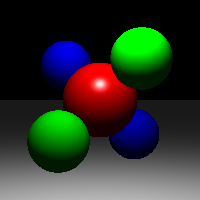
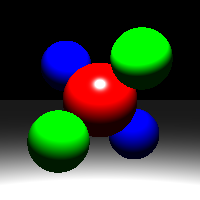
shadow and jiter and filter

diff --git a/src/Renderer.cpp b/src/Renderer.cpp
@@ -7,6 +7,8 @@
 #include "VecUtils.h"
 
 #include <limits>
+#include <random>
+#include <vector>
 
 
 Renderer::Renderer(const ArgParser &args) :
@@ -38,20 +40,101 @@ Renderer::Render()
             float ndcx = 2 * (x / (w - 1.0f)) - 1.0f;
             // Use PerspectiveCamera to generate a ray.
             // You should understand what generateRay() does.
-            Ray r = cam->generateRay(Vector2f(ndcx, ndcy));
+            if(_args.jitter) {
+                Vector3f color, n_val, d_val;
+                for(int i = 0;i < 16;i++) {
+                    std::random_device rd;
+                    std::mt19937 gen(rd());
+                    std::uniform_real_distribution<float> distr(-0.5, 0.5);
+                    float dx = distr(gen);
+                    float dy = distr(gen);
+                    float temp_ndcx = ndcx + 2 * dx / (w - 1.0f);
+                    float temp_ndcy = ndcy + 2 * dy / (h - 1.0f);
 
-            Hit h;
-            Vector3f color = traceRay(r, cam->getTMin(), _args.bounces, h);
+                    Ray r = cam->generateRay(Vector2f(temp_ndcx, temp_ndcy));
 
-            image.setPixel(x, y, color);
-            nimage.setPixel(x, y, (h.getNormal() + 1.0f) / 2.0f);
-            float range = (_args.depth_max - _args.depth_min);
-            if (range) {
-                dimage.setPixel(x, y, Vector3f((h.t - _args.depth_min) / range));
+                    Hit h;
+                    Vector3f color_new = traceRay(r, cam->getTMin(), _args.bounces, h);
+                    n_val += (h.getNormal() + 1.0f) / 2.0f;
+
+                    d_val += Vector3f(h.t - _args.depth_min);
+                    color += color_new;
+
+                    if (i == 15) {
+                        image.setPixel(x, y, color / 16);
+                        nimage.setPixel(x, y, n_val / 16);
+                        dimage.setPixel(x, y, d_val / 16 / (_args.depth_max - _args.depth_min));
+                    }
+                }
+            }
+            else {
+                Ray r = cam->generateRay(Vector2f(ndcx, ndcy));
+
+                Hit h;
+                Vector3f color = traceRay(r, cam->getTMin(), _args.bounces, h);
+
+                image.setPixel(x, y, color);
+                nimage.setPixel(x, y, (h.getNormal() + 1.0f) / 2.0f);
+                dimage.setPixel(x, y, Vector3f((h.t - _args.depth_min) / (_args.depth_max - _args.depth_min)));
             }
         }
     }
     // END SOLN
+
+    if (_args.filter) {
+        // Downsample the image using a Gaussian filter
+        Image downsample_image(w / 3, h / 3);
+        Image downsample_nimage(w / 3, h / 3);
+        Image downsample_dimage(w / 3, h / 3);
+        std::vector<float> gaussian_matrix = {1, 2, 1, 2, 4, 2, 1, 2, 1};//高斯核
+
+
+        for (int y = 0; y < h / 3; y++) {
+            for (int x = 0; x < w / 3; x++) {
+                std::vector<Vector3f> image_block;
+                Vector3f color;
+                for (int i = 0;i <= 2;i++) {
+                    for (int j = 0;j <= 2;j++) {
+                        image_block.push_back(image.getPixel(3 * x + i, 3 * y + j));
+                    }
+                }
+                for(int i = 0; i < 9; i++){
+                    color += image_block[i] * gaussian_matrix[i];
+                }
+                color = color / 16;
+                downsample_image.setPixel(x, y, color);
+
+                std::vector<Vector3f> nimage_block;
+                for(int i = 0;i <= 2;i++) {
+                    for (int j = 0;j <= 2;j++) {
+                        nimage_block.push_back(nimage.getPixel(3 * x + i, 3 * y + j));
+                    }
+                }
+                Vector3f ncolor;
+                for(int i = 0; i < 9; i++){
+                    ncolor += nimage_block[i] * gaussian_matrix[i];
+                }
+                ncolor = ncolor / 16;
+                downsample_nimage.setPixel(x, y, ncolor);
+
+                std::vector<Vector3f> dimage_block;
+                Vector3f dcolor;
+                for(int i = 0;i <= 2;i++) {
+                    for (int j = 0;j <= 2;j++) {
+                        dimage_block.push_back(dimage.getPixel(3 * x + i, 3 * y + j));
+                    }
+                }
+                for(int i = 0; i < 9; i++){
+                    dcolor += dimage_block[i] * gaussian_matrix[i];
+                }
+                dcolor = dcolor / 16;
+                downsample_dimage.setPixel(x, y, dcolor);   
+            }
+        }
+        image = downsample_image;
+        dimage = downsample_dimage;
+        nimage = downsample_nimage;
+    }
 
     // save the files 
     if (_args.output_file.size()) {
@@ -73,29 +156,48 @@ Vector3f Renderer::traceRay(const Ray &r,
     Hit &h) const
 {
     if (_scene.getGroup()->intersect(r, tmin, h)) {//有交点
-        Vector3f I,p;
+        Vector3f color,p;
         p = r.pointAtParameter(h.getT());
-        I= _scene.getAmbientLight() * h.getMaterial()->getDiffuseColor();
+        color= _scene.getAmbientLight() * h.getMaterial()->getDiffuseColor();
         for(auto& light:_scene.lights){
             Vector3f tolight, intensity;
             float distToLight;//必须为float，否则调用getIllumination()时出错
             light->getIllumination(p, tolight, intensity, distToLight);
             Vector3f ILight(0);//先不调用shade(),避免无效计算
+            if (_args.shadows) {
+                Vector3f shadowOrigin = p;
+                Ray shadowRay(shadowOrigin, tolight);
+                Hit shadowHit;
+                bool Intersected = _args.shadows&&_scene.getGroup()->intersect(shadowRay,0.0001f,shadowHit);//是否相交
+                double distToIntersection = (shadowRay.pointAtParameter(shadowHit.getT()) - shadowOrigin).abs();
+                if (Intersected&&distToIntersection<distToLight) {
+                }
+                else{
+                    ILight = h.getMaterial()->shade(r, h, tolight, intensity);
+                    color += ILight;
+                }
+            }
+            else{//没有阴影参数，正常计算
+                ILight = h.getMaterial()->shade(r, h, tolight, intensity);
+                color += ILight;
+            }
             ILight = h.getMaterial()->shade(r, h, tolight, intensity);
-            I += ILight;
+            color += ILight;
         }
         if(bounces>0){
-            Vector3f N = h.getNormal().normalized();//平面法向量
-            Vector3f temp_ray = r.getDirection().normalized();//反射前的光线
-            Vector3f newR = (temp_ray + 2 * Vector3f::dot(N,-temp_ray) * N).normalized();//反射后的光线
-            Ray newRay(p, newR);
+            Vector3f N = h.getNormal().normalized();
+            Vector3f E = r.getDirection().normalized();
+            Vector3f R = E - 2 * Vector3f::dot(N,E) * N;
+            R = R.normalized();
+            // Vector3f R = (temp_ray + 2 * Vector3f::dot(N,-temp_ray) * N).normalized();//反射后的光线
+            Ray newRay(p, R);
             // 创建新的光线对象，用于继续光线反射过程
             Hit new_h = Hit();
             Vector3f indirect = traceRay(newRay, 0.0001, bounces - 1, new_h);
             // 递归调用traceRay函数，计算间接光照
-            I += h.getMaterial()->getSpecularColor() * indirect;
+            color += h.getMaterial()->getSpecularColor() * indirect;
         }
-        return I;
+        return color;
     }
     return _scene.getBackgroundColor(r.getDirection());
     
